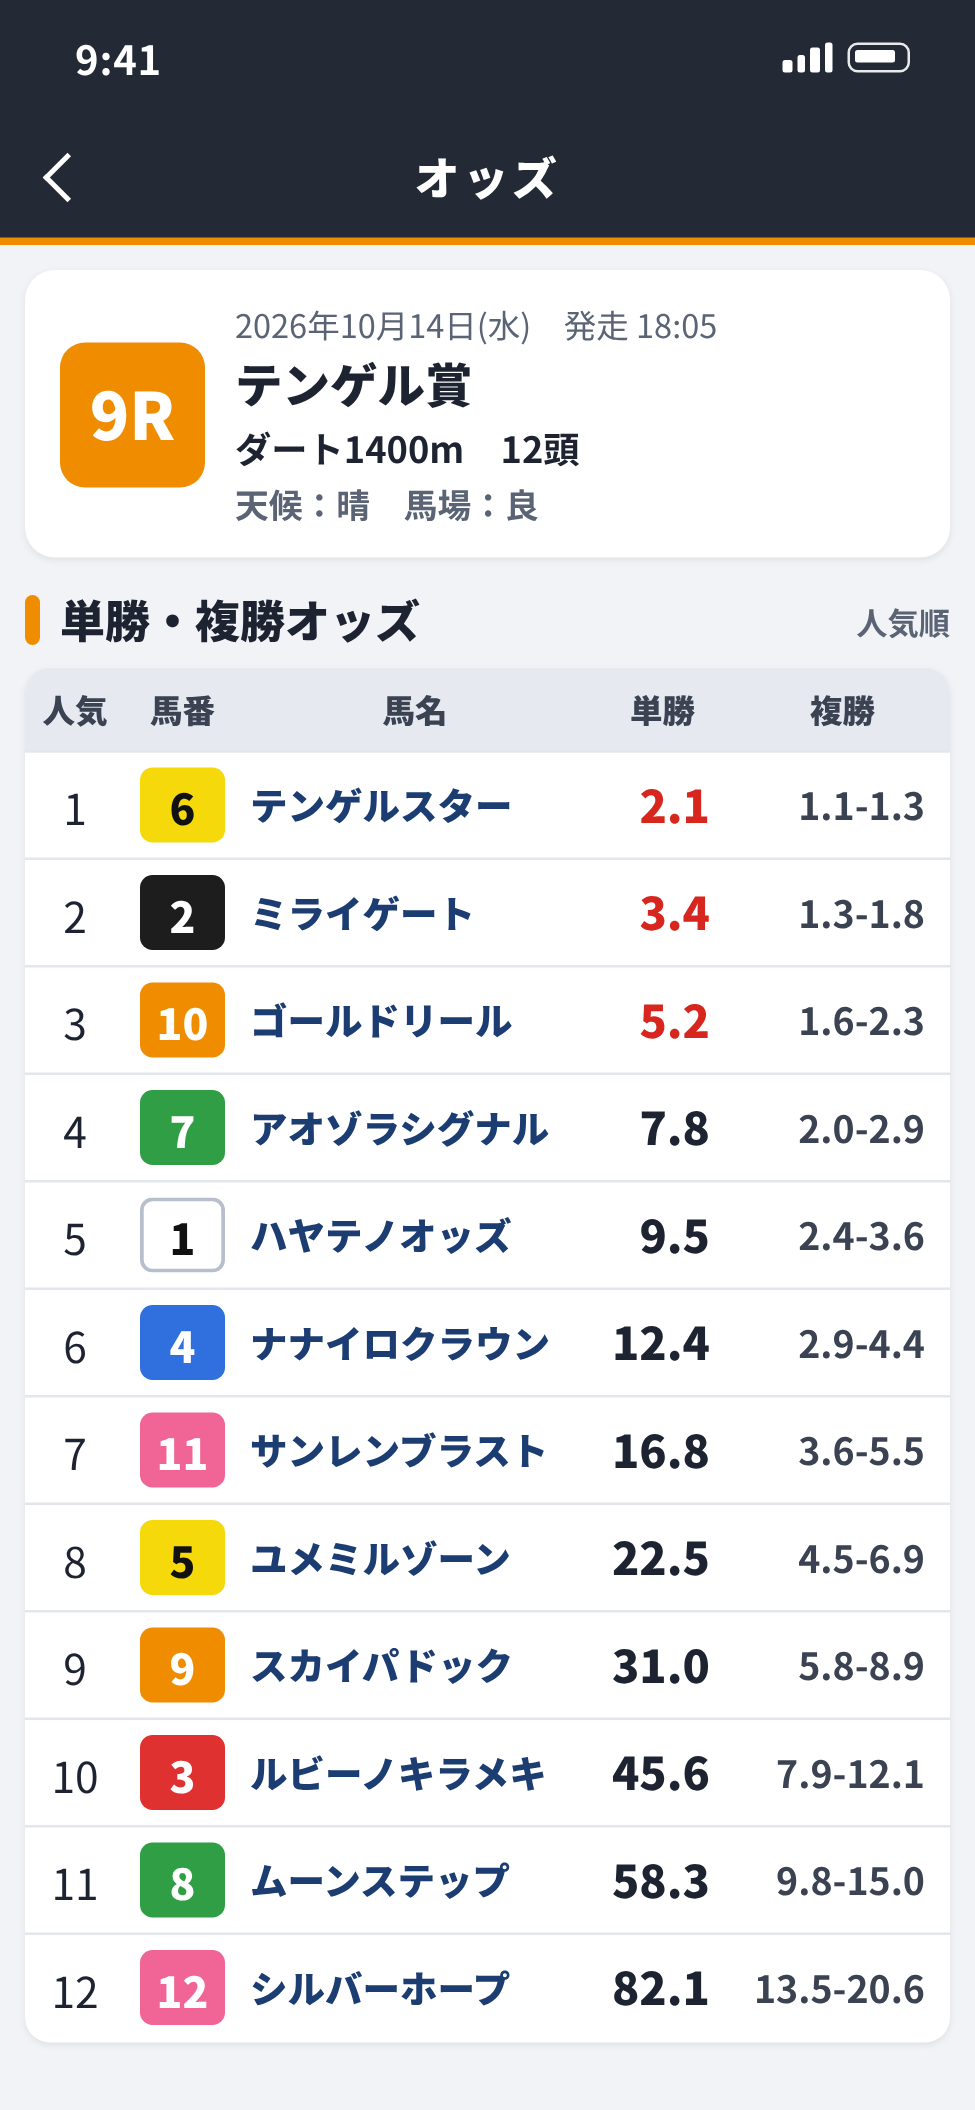
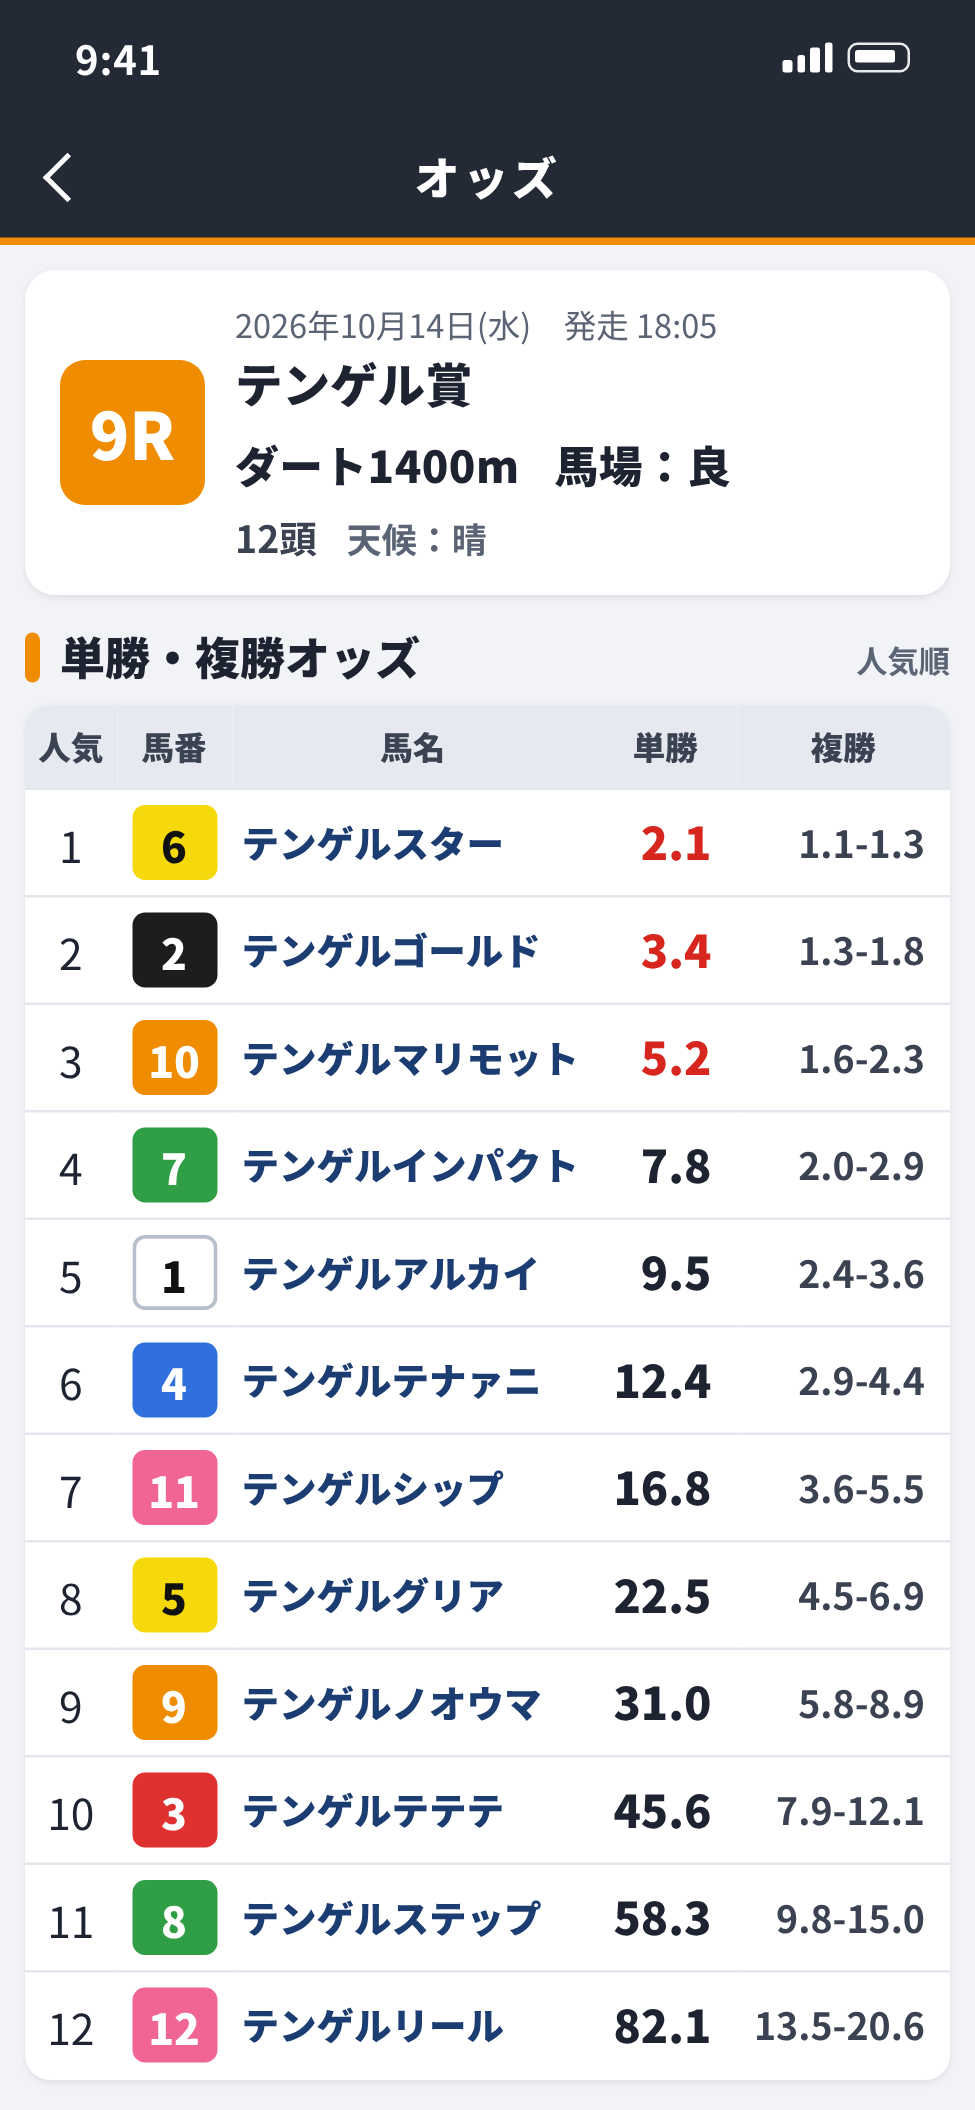
（確認待ち）CM第6弾の修正：入れるのは「オッズ・距離・馬場のスクショを 入れるだけ!!」（オッズのほかに距離と馬場も要る・まさちゃんの指定）。例の画面①は「ダート1400m　馬場：良」を大きく1行にして、①を大きく見せるときに金の枠（小さい帯も「① 距離・馬場と単勝オッズの画面」）。自動で入るところも距離と馬場の欄に金の枠を2つ同時に（「距離・馬場が自動で入る」）。例の画面の馬名を、まさちゃんが決めた架空の12頭（テンゲルスター〜テンゲルリール・表の上から人気順）に。netkeiba の競走馬検索で「テンゲル」は0頭（実在しない）を確かめた。アプリの読み取りで同じ数字が入ることも examp
Claude-Session: https://claude.ai/code/session_01D2f7uzCM9K3wiyHkskMpMi

Changed region(s): [[0.0, 0.1848, 0.9846, 0.9858], [0.0615, 0.154, 0.2154, 0.2464], [0.7077, 0.2156, 0.7385, 0.2464]]

diff --git a/source/cm/cm6.html b/source/cm/cm6.html
@@ -5,6 +5,7 @@
 /* 第6弾（まさちゃんの指定 2026/10/15）：「オッズを入れるだけ」が分かるように、入力の場面で「例のオッズ画面」（架空・独自のデザイン：example_odds.html）を2枚見せる
    ①レース情報と単勝オッズの画面 ②3連単オッズ（人気順）の画面 → アプリの「オッズ画像から読み取る」→ 読み取り中 → レース情報・単勝・3連単が自動で入る（6.4〜17.6）
    注意書きの「非公式」は「独自開発」に（販売するアプリなので、主催者とは関係のない独自のアプリだと分かる言い方に）
+   入れるのは「オッズ・距離・馬場のスクショ」（オッズのほかに距離と馬場も要る：例の画面①の距離・馬場に金の枠・入ったところも距離と馬場の欄に金の枠）。馬名はまさちゃんが決めた架空の名前
    ほかは第5弾と同じ（前置き3秒・ゆっくり・周りのランプなし・約束しない言葉）。縦9:16（540×960をDPR2で1080×1920に）。150BPM（1拍0.4秒）
    0〜53.6秒は本編、53.6〜63.6秒は注意書き。cm5.html をもとにしている（入力の場面のあとは +3.2秒） */
 *{box-sizing:border-box;margin:0;padding:0}
@@ -46,6 +47,8 @@ canvas{position:absolute;left:0;top:0;width:540px;height:960px}
 .exc{position:absolute;left:0;top:0;width:390px;height:844px;border-radius:34px;overflow:hidden;background:#fff;
   box-shadow:0 0 0 6px #fff,0 0 0 11px #ffd45c,0 0 60px rgba(255,170,40,.75),0 40px 80px rgba(0,0,0,.7)}
 .exc img{width:390px;height:844px;display:block}
+.exring{position:absolute;border:6px solid #ffcf3a;border-radius:14px;opacity:0;transform-origin:50% 50%;
+  box-shadow:0 0 0 3px rgba(80,0,0,.45),0 0 26px rgba(255,190,40,.95),inset 0 0 14px rgba(255,190,40,.45)}
 .extag{position:absolute;left:-30px;top:-34px;padding:12px 30px 16px;border-radius:20px;background:linear-gradient(180deg,#ff4040,#b0000f);color:#fff;
   font-weight:900;font-size:64px;line-height:1;border:6px solid #fff;box-shadow:0 8px 20px rgba(0,0,0,.55);transform:rotate(-8deg);letter-spacing:.04em}
 
@@ -76,6 +79,7 @@ canvas{position:absolute;left:0;top:0;width:540px;height:960px}
     <div id="hdrs"></div>
     <div id="vp"><div id="cimgs"></div>
       <div class="ring" id="ring" style="display:none"></div>
+      <div class="ring" id="ring2" style="display:none"></div>
       <div class="rip" id="prip" style="display:none"></div>
       <div class="dot" id="pdot" style="display:none"></div>
     </div>
@@ -85,7 +89,7 @@ canvas{position:absolute;left:0;top:0;width:540px;height:960px}
 </div>
 
 
-<div class="abs exw" id="ex1"><div class="exc"><img src="assets/ex_odds1.png" alt=""></div><span class="extag">例</span></div>
+<div class="abs exw" id="ex1"><div class="exc"><img src="assets/ex_odds1.png" alt=""></div><div class="exring" id="exr"></div><span class="extag">例</span></div>
 <div class="abs exw" id="ex2"><div class="exc"><img src="assets/ex_odds2.png" alt=""></div><span class="extag">例</span></div>
 
 <div class="abs" id="banner"><img src="assets/banner.jpg" alt=""></div>
@@ -269,7 +273,7 @@ const SCENES = [
               judge_filled: t => t < 14.4 ? lerp(0, yIn1, eio(P(t, 12.85, 13.3))) : t < 16.0 ? lerp(yIn1, yIn2, eio(P(t, 14.4, 14.75))) : lerp(yIn2, yIn3, eio(P(t, 16.0, 16.35))) },
     cam: t => { const e = eo(P(t, 10.4, 10.85)), zi = eio(P(t, 12.85, 13.3)); return { Z: lerp(lerp(.8, 1, e), ZP, zi), Y: lerp(lerp(1010, 298, e), YP, zi), rot: lerp(8, 0, e) }; },
     rings: [{ a: 10.85, b: 11.25, k: 'judge_empty', sel: ['#ocrBtn'] }, { a: 11.78, b: 12.7, k: 'judge_reading', sel: ['#ocrMsg'] },
-            { a: 13.3, b: 14.35, k: 'judge_filled', sel: ['.input-col > .card:nth-child(1) .fields'] }, { a: 14.8, b: 15.95, k: 'judge_filled', box: ODDS_BOX },
+            { a: 13.3, b: 14.35, k: 'judge_filled', each: ['.f:has(> #fDist)', '.f:has(> #fBaba)'] }, { a: 14.8, b: 15.95, k: 'judge_filled', box: ODDS_BOX },
             { a: 16.4, b: 17.5, k: 'judge_filled', sel: ['.input-col > .card:nth-child(3)'] }],
     taps: [{ t: 11.2, k: 'judge_empty', sel: '#ocrBtn', fx: .5 }] },
   // 誰でも簡単に! 1発でゾーンまで判定!!（層 → 1着→2着と馬番 → 3着 → 参考的中率）
@@ -351,13 +355,15 @@ function renderPhone(t) {
   });
   const hs = layered(sc.hdr, t); HKEYS.forEach(k => setVis(EL[k], hs[k] || 0));
   let tk = sc.tab[0][0]; sc.tab.forEach(([k, a]) => { if (t >= a) tk = k; }); TKEYS.forEach(k => setVis(EL[k], k === tk ? 1 : 0));
-  // 強調の枠
-  const ring = $('ring'), r = sc.rings.find(x => t >= x.a && t <= x.b);
-  if (r) {
-    const b = r.box || boxOf(r.k, r.sel), pad = 4, k = env(t, r.a, r.b, .1, .1), pu = 1 + .09 * (1 - eo(P(t, r.a, r.a + .25))), yy = sy(r.k);
+  // 強調の枠（each：いくつかの場所に同時に。第6弾：距離と馬場）
+  const r = sc.rings.find(x => t >= x.a && t <= x.b);
+  const boxes = r ? (r.each ? r.each.map(q => boxOf(r.k, [q])) : [r.box || boxOf(r.k, r.sel)]) : [];
+  [$('ring'), $('ring2')].forEach((ring, i) => {
+    const b = boxes[i]; if (!b) { ring.style.display = 'none'; return; }
+    const pad = 4, k = env(t, r.a, r.b, .1, .1), pu = 1 + .09 * (1 - eo(P(t, r.a, r.a + .25))), yy = sy(r.k);
     ring.style.display = 'block'; ring.style.left = ((b.x - pad) * S) + 'px'; ring.style.top = ((b.y - pad - yy) * S) + 'px';
     ring.style.width = ((b.w + pad * 2) * S) + 'px'; ring.style.height = ((b.h + pad * 2) * S) + 'px'; ring.style.opacity = k.toFixed(3); ring.style.transform = `scale(${pu.toFixed(4)})`;
-  } else ring.style.display = 'none';
+  });
   // タップ
   const tp = sc.taps.find(x => t >= x.t - .22 && t <= x.t + .45), rip = $('prip'), dot = $('pdot');
   if (tp) {
@@ -386,6 +392,9 @@ const EXP = {
   back: [{ x: 104, y: 652, s: .5, r: -5, d: .4 }, { x: 436, y: 652, s: .5, r: 5, d: .4 }],
   thumb: [{ x: 76, y: 520, s: .27, r: -6, d: 1 }, { x: 464, y: 520, s: .27, r: 6, d: 1 }],
 };
+// 例の画面①の「ダート1400m　馬場：良」（example_odds.py が出す EXBOX の exDB）。①を大きくしたときに金の枠
+const EXRING = (() => { const b = { x: 94, y: 174, w: 198.5, h: 25 }, px = 11, py = 7;
+  const el = $('exr'); el.style.left = (b.x - px) + 'px'; el.style.top = (b.y - py) + 'px'; el.style.width = (b.w + px * 2) + 'px'; el.style.height = (b.h + py * 2) + 'px'; return el; })();
 const mixP = (p, q, u) => ({ x: lerp(p.x, q.x, u), y: lerp(p.y, q.y, u), s: lerp(p.s, q.s, u), r: lerp(p.r, q.r, u), d: lerp(p.d, q.d, u) });
 // スマホの画面の中の要素 → 舞台の座標（傾きなしのとき）
 function phonePt(t, k, sel, fx = .5, fy = .5) {
@@ -419,6 +428,8 @@ function drawExamples(t) {
     el.firstElementChild.style.filter = p.d < .995 ? `brightness(${p.d.toFixed(3)})` : 'none';
     place(el, p.x, p.y, p.o, p.s, p.r);
   });
+  // ①を大きくしたら「距離」「馬場」に金の枠
+  EXRING.style.opacity = env(t, 7.95, 8.95, .12, .12).toFixed(3); EXRING.style.transform = `scale(${(1 + .14 * (1 - eo(P(t, 7.95, 8.2)))).toFixed(4)})`;
 }
 
 // ===================== 背景 =====================
@@ -596,9 +607,9 @@ const CAPS = [
 ];
 // 小さい帯：1つ1秒以上（読める長さ）。的中や利益を約束する言葉は使わない
 const SUBS = [
-  { a: 7.65, b: 8.95, s: '① レース情報と単勝オッズの画面' }, { a: 9.05, b: 10.35, s: '② 3連単オッズ（人気順）の画面' },
+  { a: 7.65, b: 8.95, s: '① 距離・馬場と単勝オッズの画面' }, { a: 9.05, b: 10.35, s: '② 3連単オッズ（人気順）の画面' },
   { a: 10.45, b: 11.6, s: 'アプリでスクショを選ぶだけ' }, { a: 11.75, b: 12.75, s: 'スクショから自動で読み取り' },
-  { a: 13.3, b: 14.35, s: 'レース情報が自動で入る' }, { a: 14.8, b: 15.95, s: '単勝オッズも自動で入る' }, { a: 16.4, b: 17.5, s: '3連単オッズも自動で入る' },
+  { a: 13.3, b: 14.35, s: '距離・馬場が自動で入る' }, { a: 14.8, b: 15.95, s: '単勝オッズも自動で入る' }, { a: 16.4, b: 17.5, s: '3連単オッズも自動で入る' },
   { a: 18.1, b: 19.5, s: '荒れやすさをA・B・Cで判定' }, { a: 19.8, b: 21.2, s: '1着→2着のゾーンと馬番' }, { a: 21.25, b: 22.4, s: '3着のゾーンまで' }, { a: 22.5, b: 23.9, s: '過去のデータでの参考的中率つき' },
   { a: 25.2, b: 26.4, s: '2着に「大穴」を追加' }, { a: 26.5, b: 27.7, s: '3着にも「大穴」を追加' }, { a: 27.8, b: 28.8, s: '過去の的中数もその場で計算' }, { a: 28.9, b: 30.35, s: '判定にすぐ反映' },
   { a: 30.95, b: 31.8, s: 'マザーデータは3つまで', blue: 1 }, { a: 31.9, b: 33.2, s: 'Excel・CSVを入れるだけ', blue: 1 }, { a: 35.2, b: 36.7, s: 'あなたのデータ × あなたの買い目', blue: 1 },
@@ -878,7 +889,7 @@ function build() {
   mkRibbon('rib2', APPV ? 'あなたのiPhone・iPadで稼働中!!' : 'あなたのiPhoneで稼働中!!', { w: APPV ? 500 : 470, h: 62, size: APPV ? 26 : 30 });
   mkBadge('new', '新登場', 62);
   mkRibbon('rib3', 'ご利用にあたって', { w: 330, h: 54, size: 26, c1: '#1c3f8a', c2: '#0b1f4d', c3: '#050b22' });
-  mkText('c1a', 'オッズ画面のスクショを', { size: 36, fill: 'white', s2: '#ffd45c', depth: 2 });
+  mkText('c1a', 'オッズ・距離・馬場のスクショを', { size: 32, fill: 'white', s2: '#ffd45c', depth: 2 });   // 第6弾：オッズのほかに距離と馬場も（まさちゃんの指定）
   mkText('c1b', '入れるだけ!!', { size: 78, fill: 'fire', glow: 'rgba(255,80,0,.9)' });
   mkText('c2a', '誰でも簡単に! 1発で', { size: 36, fill: 'white', s2: '#ffd45c', depth: 2 });
   mkText('c2b', 'ゾーンまで判定!!', { size: 58, fill: 'rainbow', dir: 'h', glow: 'rgba(255,255,255,.7)' });

diff --git a/source/cm/example_odds.html b/source/cm/example_odds.html
@@ -20,8 +20,10 @@ html,body{width:390px;height:844px;overflow:hidden;background:#f2f3f6;font-famil
 .rno{flex:none;width:58px;height:58px;border-radius:10px;background:#f08c00;color:#fff;font-weight:900;font-size:26px;display:flex;align-items:center;justify-content:center}
 .rinfo .d{font-size:13px;color:#5b6475}
 .rinfo .n{font-size:19px;font-weight:900;margin:1px 0 2px}
-.rinfo .m{font-size:14.5px;font-weight:700}
-.rinfo .m2{font-size:13.5px;color:#5b6475;font-weight:600;margin-top:1px}
+.rinfo .m{font-size:17.5px;font-weight:900;letter-spacing:.01em;margin:7px 0 6px}
+.rinfo .m #exBaba{margin-left:14px}
+.rinfo .m2{font-size:15px;font-weight:700;color:#3b4252;margin-top:1px}
+.rinfo .m2 .sm{margin-left:12px;font-size:14px;color:#5b6475;font-weight:600}
 .sect{margin:12px 10px 6px;display:flex;align-items:center;gap:8px;font-weight:900;font-size:18px}
 .sect::before{content:"";width:6px;height:20px;border-radius:3px;background:#f08c00}
 .sect small{margin-left:auto;font-size:12.5px;color:#5b6475;font-weight:600}
@@ -44,16 +46,17 @@ td.odds.hot{color:#d6261d}
 <body>
 <div class="status"><b>9:41</b><span class="ic"><span class="bars"><i style="height:5px"></i><i style="height:7.5px"></i><i style="height:10px"></i><i style="height:12.5px"></i></span><span class="bat"></span></span></div>
 <div class="appbar">オッズ</div>
-<div class="race"><div class="rno">9R</div><div class="rinfo"><div class="d">2026年10月14日(水)　発走 18:05</div><div class="n">テンゲル賞</div><div class="m">ダート1400m　12頭</div><div class="m2">天候：晴　馬場：良</div></div></div>
+<div class="race"><div class="rno">9R</div><div class="rinfo"><div class="d">2026年10月14日(水)　発走 18:05</div><div class="n">テンゲル賞</div><div class="m"><span id="exDB"><span id="exDist">ダート1400m</span><span id="exBaba">馬場：良</span></span></div><div class="m2">12頭<span class="sm">天候：晴</span></div></div></div>
 <div id="body"></div>
 <script>
 // 馬番 → 枠（12頭：1〜4は1頭ずつ、5〜8枠は2頭ずつ）
 const WAKU = n => n <= 4 ? n : Math.ceil((n - 4) / 2) + 4;
 const NO = n => `<span class="no w${WAKU(n)}">${n}</span>`;
 // 単勝・複勝（人気順）：馬番・馬名（架空）・単勝・複勝
-const TAN = [[6, 'テンゲルスター', '2.1', '1.1-1.3'], [2, 'ミライゲート', '3.4', '1.3-1.8'], [10, 'ゴールドリール', '5.2', '1.6-2.3'], [7, 'アオゾラシグナル', '7.8', '2.0-2.9'],
-             [1, 'ハヤテノオッズ', '9.5', '2.4-3.6'], [4, 'ナナイロクラウン', '12.4', '2.9-4.4'], [11, 'サンレンブラスト', '16.8', '3.6-5.5'], [5, 'ユメミルゾーン', '22.5', '4.5-6.9'],
-             [9, 'スカイパドック', '31.0', '5.8-8.9'], [3, 'ルビーノキラメキ', '45.6', '7.9-12.1'], [8, 'ムーンステップ', '58.3', '9.8-15.0'], [12, 'シルバーホープ', '82.1', '13.5-20.6']];
+// 馬名はまさちゃんが決めた架空の名前（netkeiba の競走馬検索で「テンゲル」は0頭＝実在しない・2026/10/15）。表の上から（人気順）1〜12
+const TAN = [[6, 'テンゲルスター', '2.1', '1.1-1.3'], [2, 'テンゲルゴールド', '3.4', '1.3-1.8'], [10, 'テンゲルマリモット', '5.2', '1.6-2.3'], [7, 'テンゲルインパクト', '7.8', '2.0-2.9'],
+             [1, 'テンゲルアルカイ', '9.5', '2.4-3.6'], [4, 'テンゲルテナァニ', '12.4', '2.9-4.4'], [11, 'テンゲルシップ', '16.8', '3.6-5.5'], [5, 'テンゲルグリア', '22.5', '4.5-6.9'],
+             [9, 'テンゲルノオウマ', '31.0', '5.8-8.9'], [3, 'テンゲルテテテ', '45.6', '7.9-12.1'], [8, 'テンゲルステップ', '58.3', '9.8-15.0'], [12, 'テンゲルリール', '82.1', '13.5-20.6']];
 // 3連単（人気順）：1位・5位・10位はアプリの画面と同じ
 const TRI = [[[6, 2, 10], '18.5'], [[6, 10, 2], '21.3'], [[6, 2, 7], '27.4'], [[2, 6, 10], '31.6'], [[6, 7, 2], '42.6'],
              [[6, 2, 1], '45.2'], [[6, 10, 7], '51.8'], [[2, 10, 6], '58.4'], [[6, 1, 2], '66.0'], [[10, 6, 2], '78.9']];

diff --git a/source/cm/cm2_shots.py b/source/cm/cm2_shots.py
@@ -218,7 +218,8 @@ try:
         pg.evaluate("""document.getElementById('ocrMsg').innerHTML = '<div class="banner info">読み取った：R・距離・頭数・馬場・単勝12頭・3連単1位・3連単5位・3連単10位<br><span class="small">読み間違いがないか、オッズと頭数だけは画面と見比べてね。</span></div>'""")
         pg.wait_for_timeout(300)
         content(pg, 'judge_filled', ['#ocrMsg', '.input-col > .card:nth-child(1) .fields'] + RSEL
-                + ['.input-col > .card:nth-child(1)', '.input-col > .card:nth-child(2)', '.input-col > .card:nth-child(3)', '.input-col > .card:nth-child(2) .oheads', '#oddsGrid', '#fS1', '#fS5', '#fS10'])   # CM第5弾：入れる3つ（レース情報・単勝・3連単）
+                + ['.input-col > .card:nth-child(1)', '.input-col > .card:nth-child(2)', '.input-col > .card:nth-child(3)', '.input-col > .card:nth-child(2) .oheads', '#oddsGrid', '#fS1', '#fS5', '#fS10',
+                   '.f:has(> #fDist)', '.f:has(> #fBaba)'])   # CM第5弾：入れる3つ（レース情報・単勝・3連単）。第6弾：距離と馬場の欄も
         bar_shot(pg, 'header.top', 'header_oi0'); bar_shot(pg, '.tabbar', 'tabbar_judge')
         if PREV:   # プレビュー動画用：買う馬を選ぶ前と、2つ目のゾーンの2着の4番を押したあと（画面全体）
             PSEL = ['#result ol.zones > li:nth-child(2)', '#result ol.zones > li:nth-child(2) .znums', '#result ol.zones > li:nth-child(2) button.hp[data-hs="b"][data-no="4"]']

diff --git a/source/cm/example_odds.py b/source/cm/example_odds.py
@@ -37,6 +37,10 @@ with sync_playwright() as p:
         pg.screenshot(path=f'{CM}/assets/ex_odds{n}.png', animations='disabled')
         pages.append(pg.evaluate(LEAF_JS))
         print('ok', f'assets/ex_odds{n}.png')
+        if n == '1':   # CMで金の枠をつける場所（cm6.html の EXBOX に入れる）
+            print('   EXBOX', pg.evaluate("Object.fromEntries(['exDB', 'exDist', 'exBaba'].map(id => { const b = document.getElementById(id).getBoundingClientRect(); return [id, { x: +b.left.toFixed(1), y: +b.top.toFixed(1), w: +b.width.toFixed(1), h: +b.height.toFixed(1) }]; }))"))
+            print('   名前がはみ出さない', pg.evaluate("[...document.querySelectorAll('td.name')].every(td => td.scrollWidth <= td.clientWidth + 1)"),
+                  '表が画面に収まる', pg.evaluate("document.querySelector('table').getBoundingClientRect().bottom <= 844"))
     b.close()
 with tempfile.TemporaryDirectory() as d:
     open(d + '/lines.json', 'w', encoding='utf8').write(json.dumps(pages, ensure_ascii=False))
